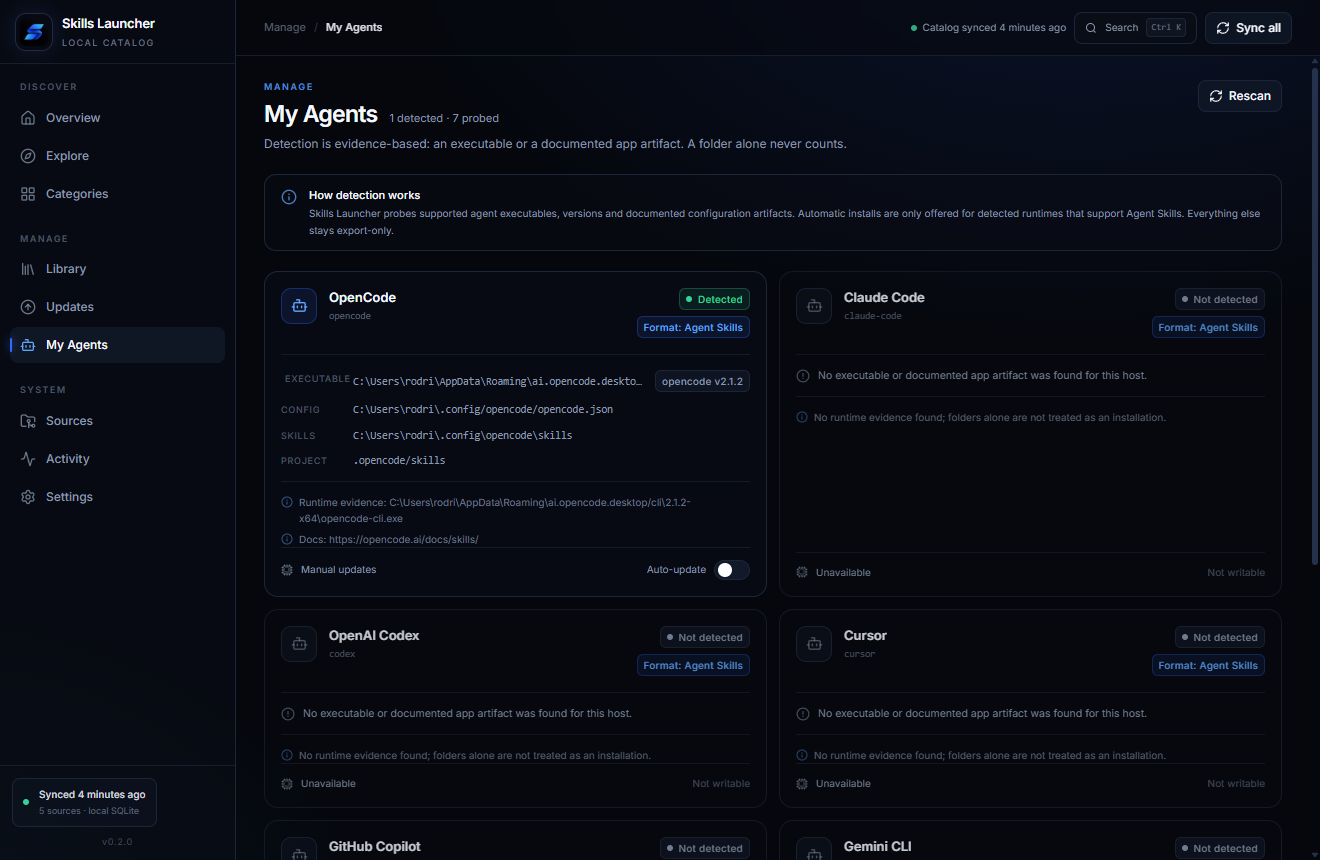
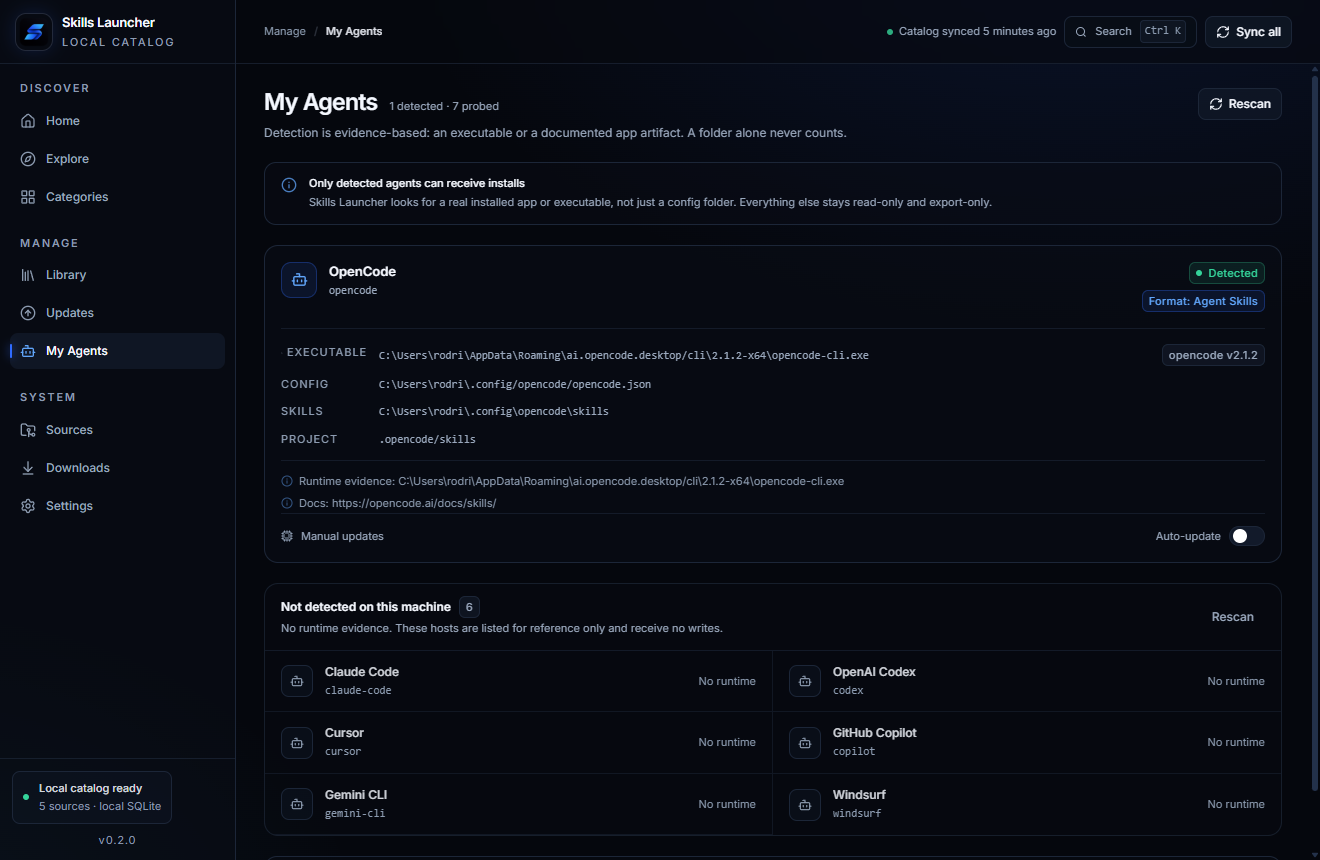
docs(design): add before/after Playwright audit evidence

diff --git a/docs/AUDIT.md b/docs/AUDIT.md
@@ -1,7 +1,8 @@
 # Design audit
 
 Method: the release Tauri app is launched with WebView2 remote debugging enabled, then Playwright connects over CDP to
-the real window. Screenshots and console errors are captured from the running app, not a mocked browser preview.
+the real window. Screenshots and console errors are captured from the running app, not a mocked browser preview. An
+independent React UI review ran alongside the implementation.
 
 ```powershell
 $env:WEBVIEW2_ADDITIONAL_BROWSER_ARGUMENTS="--remote-debugging-port=9222"
@@ -9,38 +10,51 @@ $env:WEBVIEW2_ADDITIONAL_BROWSER_ARGUMENTS="--remote-debugging-port=9222"
 npm run audit:ui -w @skills-launcher/desktop
 ```
 
-Outputs: `docs/audit/*.png` plus a route/console summary. The final run reported **0 console errors**.
+Outputs: `docs/audit/before/*.png` (baseline), `docs/audit/*.png` (after), and a route/console summary. The final run
+reported **0 console errors**.
 
 ## Evidence
 
-- Removed the previous ad-hoc test DB and re-synced the five seeded official sources: **105 real skills**, 5 sources,
-  12 categories, 2 quarantined versions; no sample rows.
+- Re-synced the five seeded official sources from a clean local database: **105 real skills**, 5 sources, 12 categories,
+  2 quarantined versions; no sample rows.
 - Real Windows detection: OpenCode is the only detected host (runtime evidence `opencode-cli`); Claude Code, Codex,
   Cursor, Copilot, Gemini CLI and Windsurf correctly remain not-detected from config/skills folders alone.
-- Real UI install/uninstall into OpenCode was exercised through the skill-detail sheet; Library, Activity and filesystem
-  state updated correctly, then the test install was removed.
-- Screenshots: `home`, `explore`, `explore-search`, `categories`, `library`, `updates`, `agents`, `sources`, `activity`,
-  `settings`, `skill-detail`, `skill-detail-readme`, `source-form`, `home-light`, `home-980x640`.
+- UI install/uninstall into OpenCode was exercised through the skill-detail sheet; Library, Downloads and filesystem
+  state updated correctly. The installed-state screenshot is `skill-detail-installed.png`; the test install was removed.
+- Screenshots: `home`, `explore`, `explore-search`, `categories`, `library`, `updates`, `agents`, `sources`, `downloads`,
+  `settings`, `skill-detail`, `skill-detail-readme`, `skill-detail-installed`, `source-form`, `home-light`,
+  `home-980x640`.
 - Windows NSIS installer built, silently installed, launched from `%LOCALAPPDATA%\Skills Launcher`, uninstalled and
   reinstalled successfully. The installed build reports 5 sources / 105 skills / 0 installations from the real DB.
 
 ## Improvements made during the audit
 
 - Replaced the previous violet placeholder accent with the logo’s near-black/blue/cyan palette, in the desktop and site.
-- Fixed Settings to match the real backend contract; removed the unused remote-catalog field instead of shipping a dead
-  control.
-- Normalized non-SPDX license strings to `See LICENSE` so cards no longer show “Complete terms in LICENSE.txt”.
-- Stripped YAML frontmatter from the README viewer, added safe table/list/code rendering, and stopped rendering the full
-  markdown body as the short description.
-- Hid REMOVED installations from Library and skill details; added uninstall/rollback error toasts.
-- Aligned source-form validation with the HTTPS-only backend and clarified local/ZIP import grant behavior.
-- Renamed the per-agent switch to **Auto-update**, matching what the backend actually does after a source sync.
-- Added `At risk` labeling (high risk or quarantined) instead of calling all of them “Blocked”.
-- Kept compact/icon-only sidebar at 980×640 and verified light-theme persistence.
+- Introduced an opaque secondary-text token, removed alpha-muted body text, increased metadata sizes, and collapsed the
+  typography scale. The sidebar/desktop header heights now align.
+- Reworked Home: one global sync action, one last-sync indicator, no duplicated official-source panel; real featured
+  skills and a compact open-ecosystem entry point.
+- Renamed navigation to the requested **Home** and **Downloads** structure; page headings now rely on the topbar
+  breadcrumb instead of repeating an eyebrow.
+- Compacted My Agents: detected runtime gets one full-width evidence card; undetected hosts use a compact reference
+  list instead of six oversized empty cards.
+- Made install explicit: one detected host is selected by default, rescans preserve selection, the footer names the host,
+  and existing installs show an Installed state with Open Library/Reinstall.
+- Simplified SkillCard: name first, metadata demoted, low-risk/100-score noise removed, host dots replaced with a plain
+  agent count, and installed skills get a badge.
+- Reconciled Explore’s counts: `103 of 105`, a truthful `Include quarantined (2)` control, filter chips, stronger focus
+  rings, and pagination scroll-to-results. Zero-skill categories are no longer clickable dead ends.
+- Removed dead/duplicate actions: global sync only, no “Update selected” when there are no updates, one empty-Library
+  primary action, no fake filter glyph.
+- Added accessible tab focus/arrow handling, stronger form focus rings, toast deduplication, README table rendering with
+  frontmatter removed, and no nested README scroll trap.
+- Normalized non-SPDX license strings to `See LICENSE`; trust labels now state that they are self-declared source labels.
+- Kept compact/icon-only sidebar at 980×640 and verified both dark and light palettes; reduced-motion support remains.
 
 ## Residual limits
 
 - Windows/WebView2 is the only runtime exercised. Linux/macOS descriptors exist but were not run on real runners.
 - Project-scope install is not implemented; only user-level skill roots are written.
 - No screenshots from a real second monitor/DPI setup; layout tested at 1320×860 and 980×640.
+- Form dirty-state protection and a full WAI-ARIA radio group for theme cards are still future polish.
 - No remote catalog/account sync; the optional web marketplace is separate.
